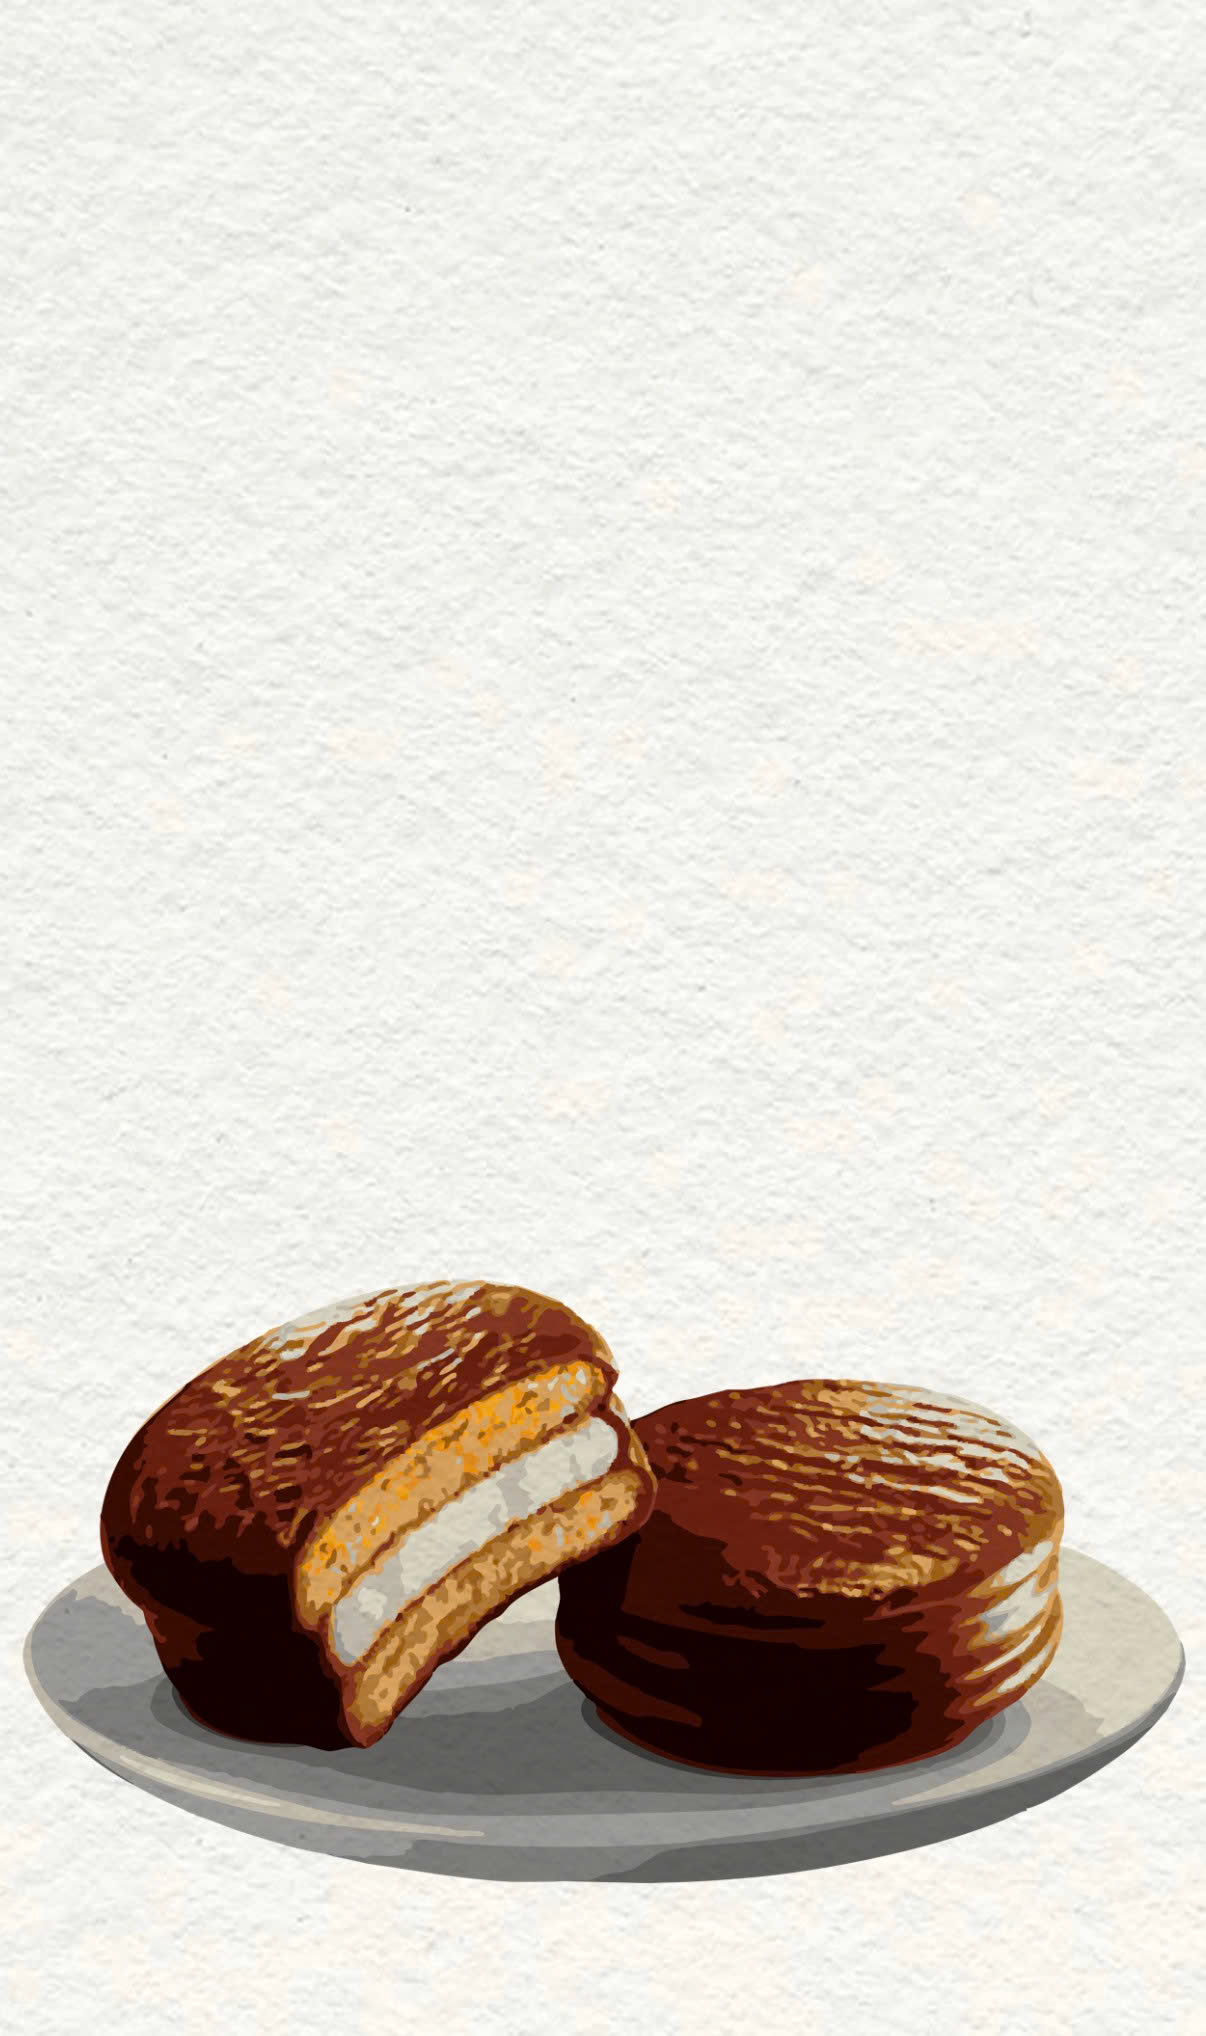
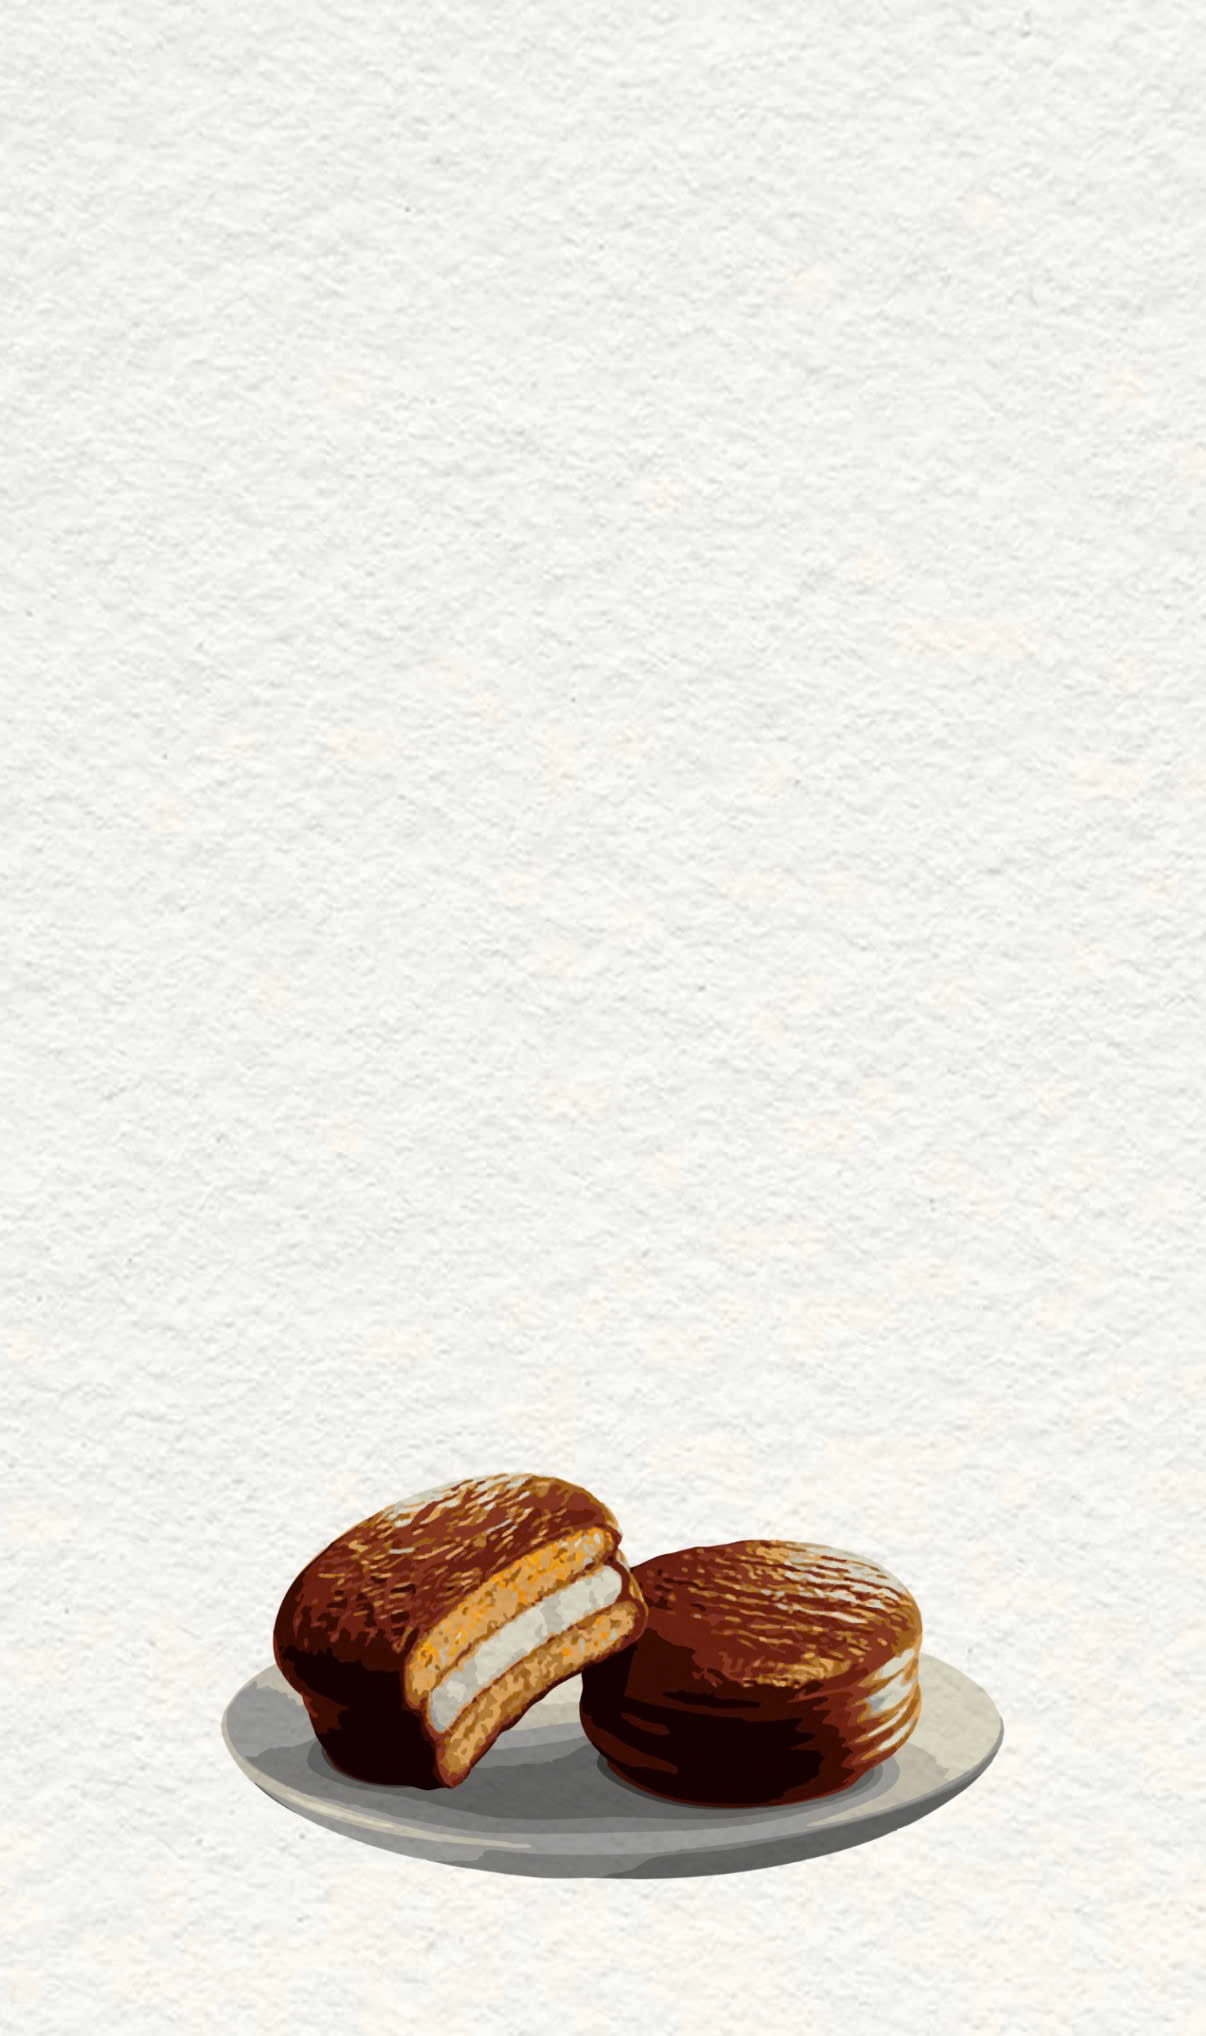
chou iu cua tui

Changed region(s): [[0.0, 0.6189, 0.9818, 0.9283]]

diff --git a/index.html b/index.html
@@ -99,12 +99,10 @@
         }
 
         .choco-img {
-            width: 90%;
-            max-width: 270px;
+            width: 100%;
+            height: auto;
             display: block;
             margin: 0 auto 30px auto;
-            opacity: 1;
-            filter: none;
         }
 
         @media (max-width: 400px) {
@@ -127,9 +125,11 @@
                 margin-bottom: 12px;
             }
         }
+
         div.container {
-            padding-top: 100px;
+            padding-top: 50px;
         }
+
         a.link-demo {
             color: black;
             text-decoration: none;
